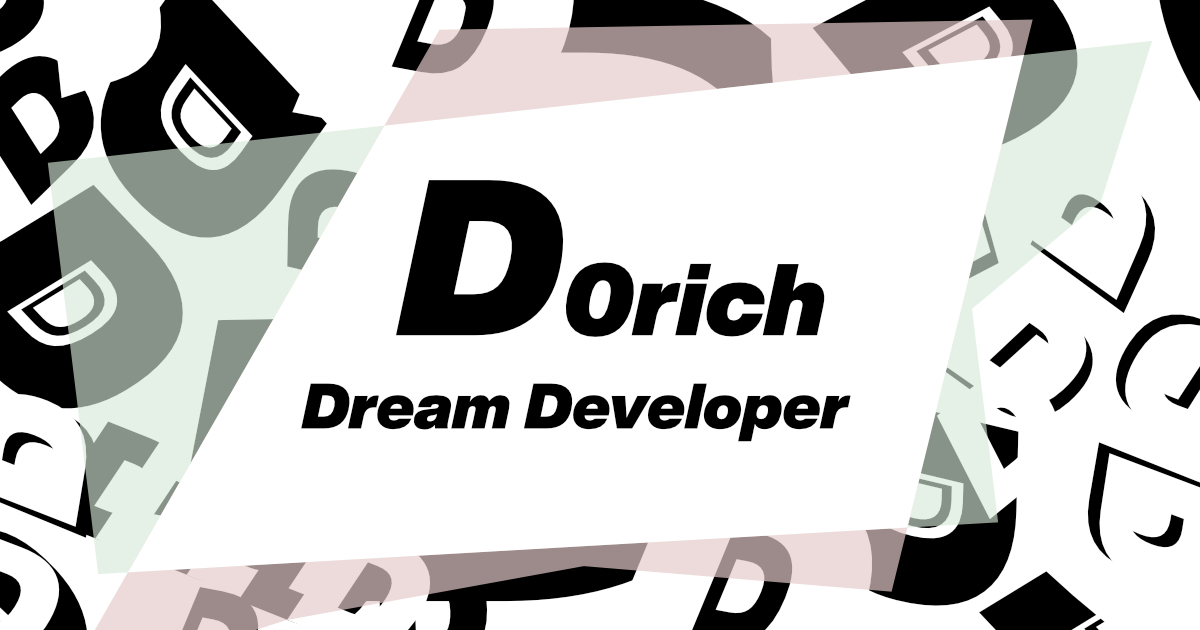
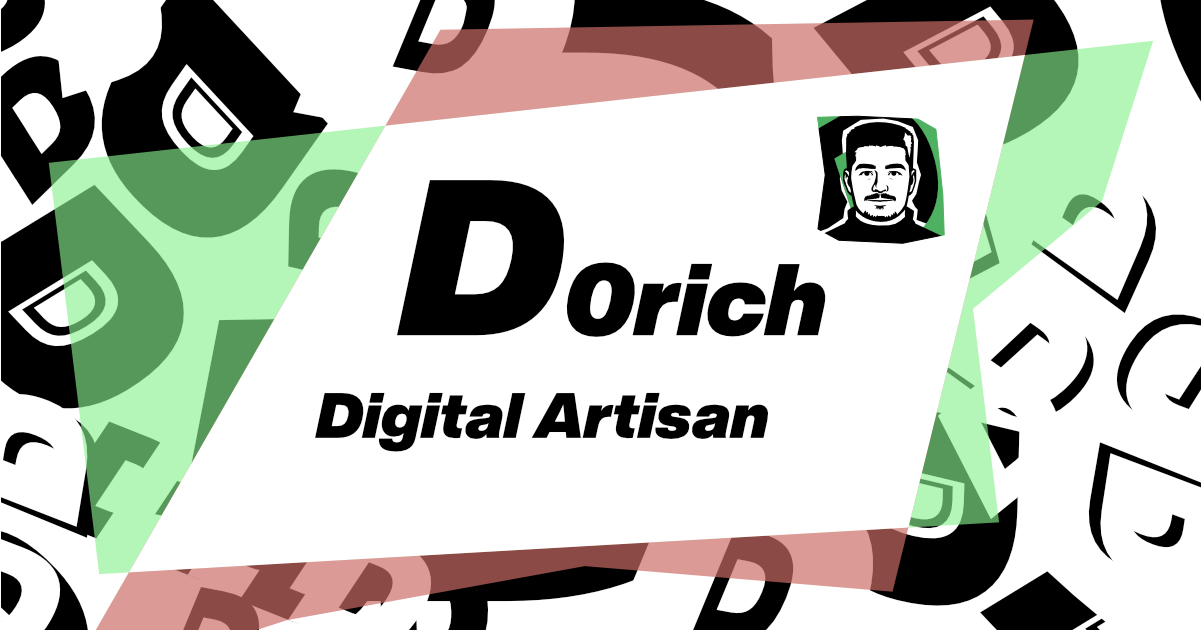
Update SEO metadata: change title and Twitter title to reflect 'Digital Artisan'

diff --git a/apps/d0rich.me/app.vue b/apps/d0rich.me/app.vue
@@ -45,7 +45,7 @@ onNuxtReady(() => {
 useHead({
   titleTemplate(title: string | undefined) {
     if (title) return `${title} • d0rich`
-    else return 'd0rich: dream developer'
+    else return 'd0rich: Digital Artisan'
   },
   meta: [
     {
@@ -85,7 +85,7 @@ useSeoMeta({
   twitterSite: '@d0rich',
   twitterCreator: '@d0rich',
   twitterImage: 'https://d0rich.me/og/image.jpg',
-  twitterTitle: 'd0rich: dream developer',
+  twitterTitle: 'd0rich: Digital Artisan',
   twitterDescription: description
 })
 </script>
